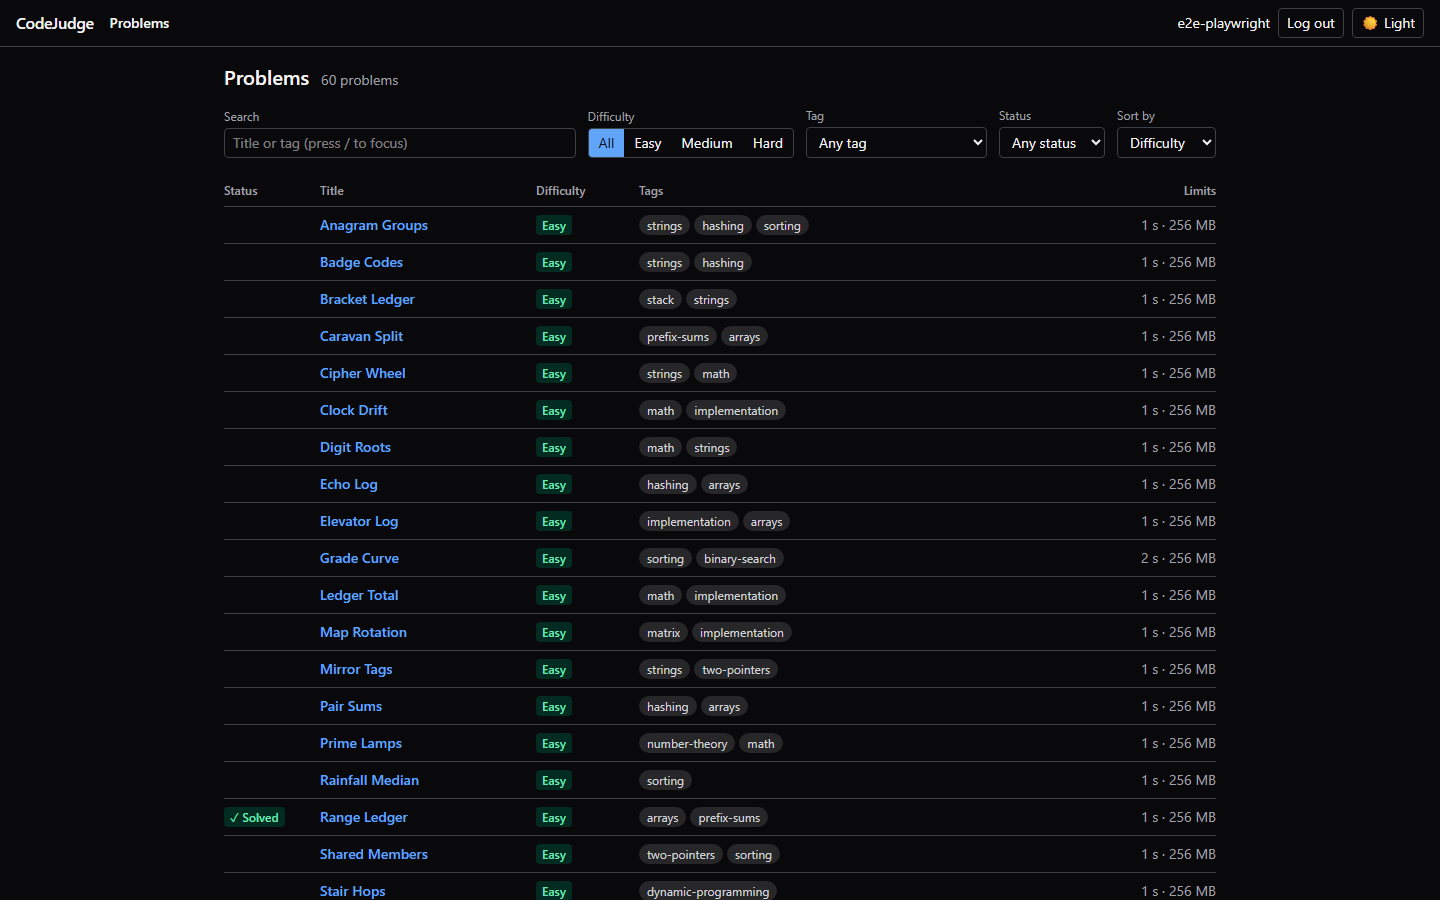
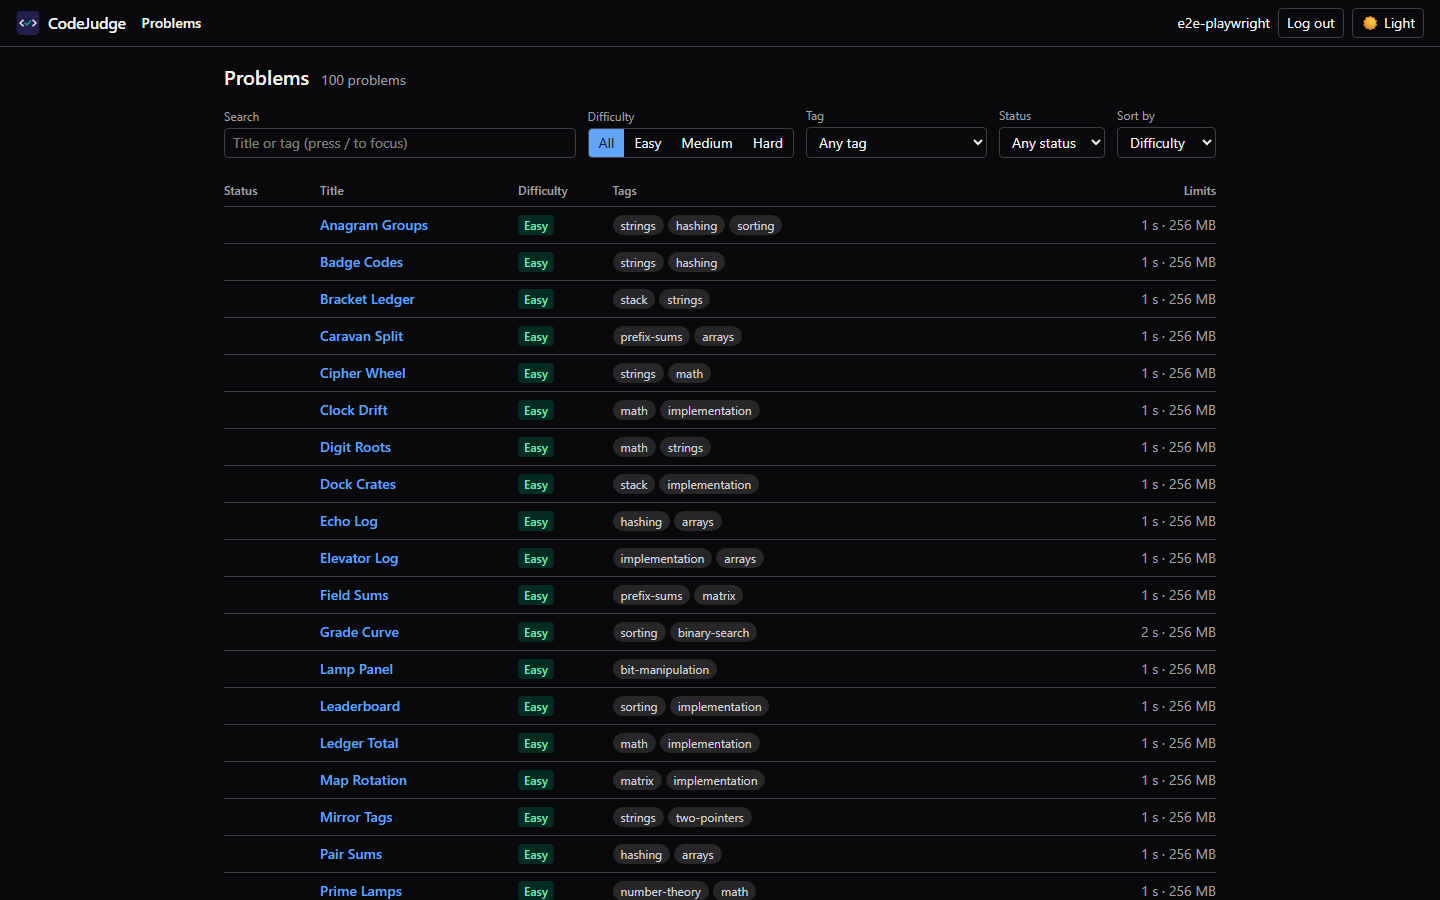
Screenshots without private solutions
The judge and UI e2e specs use programs written for them (web/e2e/showcase.ts) instead of the private reference and wrong solutions. Every docs/img image was regenerated (now with the logo).

diff --git a/web/e2e/ui.spec.ts b/web/e2e/ui.spec.ts
@@ -3,12 +3,11 @@
 // (UI_SCREENSHOTS=1 writes docs/img/ui-*.png).
 import AxeBuilder from "@axe-core/playwright";
 import { expect, test, type Page } from "@playwright/test";
-import { readFileSync } from "node:fs";
 import { join } from "node:path";
 import { fileURLToPath } from "node:url";
 
 import { enterCode } from "./helpers.ts";
-import { solutionPath } from "./stack.ts";
+import { RANGE_LEDGER_OFF_BY_ONE, RANGE_LEDGER_OK } from "./showcase.ts";
 
 const REPO = fileURLToPath(new URL("../..", import.meta.url));
 const SHOTS = process.env.UI_SCREENSHOTS === "1";
@@ -124,10 +123,9 @@ for (const theme of ["light", "dark"] as const) {
       window.localStorage.removeItem("codejudge:draft:range-ledger:cpp");
     });
     await page.reload();
-    const sol = (f: string) => readFileSync(solutionPath("range-ledger", f), "utf8");
 
-    // The input starts as sample 01; the reference matches its expected output.
-    await enterCode(page, sol("ref.cpp"), "prefix");
+    // The input starts as sample 01; a correct program matches its expected output.
+    await enterCode(page, RANGE_LEDGER_OK, "prefix");
     await expect(page.getByRole("tab", { name: "Run" })).toHaveAttribute("aria-selected", "true");
     await page.getByRole("button", { name: "Run", exact: true }).click();
     await expect(page.getByTestId("run-status")).toHaveAttribute("data-status", "OK");
@@ -143,7 +141,7 @@ for (const theme of ["light", "dark"] as const) {
 
     // A wrong program on a sample shows the diff against the expected output.
     await page.getByRole("button", { name: "Sample 01" }).click();
-    await enterCode(page, sol("wrong.cpp"), "prefix");
+    await enterCode(page, RANGE_LEDGER_OFF_BY_ONE, "prefix");
     await page.getByRole("button", { name: "Run", exact: true }).click();
     const diffLine = page.getByTestId("run-output").locator('[data-kind="expected"]').first();
     await expect(diffLine).toBeAttached();
@@ -152,7 +150,7 @@ for (const theme of ["light", "dark"] as const) {
     await shot(page, `run-diff-${theme}`);
 
     // Submitting switches to the Submission tab and shows the verdict summary.
-    await enterCode(page, sol("ref.cpp"), "prefix");
+    await enterCode(page, RANGE_LEDGER_OK, "prefix");
     await page.getByRole("button", { name: "Submit" }).click();
     await expect(page.getByRole("tab", { name: "Submission" })).toHaveAttribute("aria-selected", "true");
     await expect(page.getByTestId("result").getByTestId("verdict")).toHaveAttribute("data-verdict", "AC");

diff --git a/web/e2e/judge.spec.ts b/web/e2e/judge.spec.ts
@@ -1,15 +1,14 @@
-import { readFileSync } from "node:fs";
 import { join } from "node:path";
 
 import { expect, test, type Page } from "@playwright/test";
 
 import { enterCode as pasteCode } from "./helpers.ts";
-import { REPO, solutionPath } from "./stack.ts";
+import { RANGE_LEDGER_OFF_BY_ONE, RANGE_LEDGER_OK } from "./showcase.ts";
+import { REPO } from "./stack.ts";
 
-// range-ledger: its wrong solution (off-by-one) fails on SAMPLE 01, so the WA
-// case exercises the sample diff view.
+// range-ledger: the off-by-one program fails on SAMPLE 01, so the WA case
+// exercises the sample diff view. Programs from showcase.ts (screenshots).
 const SLUG = "range-ledger";
-const solution = (file: string) => readFileSync(solutionPath(SLUG, file), "utf8");
 const SHOTS = process.env.PHASE4_SCREENSHOTS === "1"; // write docs/img/phase4-*.png
 const shot = async (page: Page, name: string) => {
   if (SHOTS) await page.screenshot({ path: join(REPO, "docs", "img", `phase4-${name}.png`) });
@@ -23,13 +22,13 @@ test.beforeEach(async ({ context, page }) => {
   await page.evaluate(() => localStorage.clear());
 });
 
-test("problem list -> problem page -> C++ reference is Accepted", async ({ page }) => {
+test("problem list -> problem page -> a correct C++ program is Accepted", async ({ page }) => {
   await page.goto("/problems");
   await expect(page.getByRole("heading", { name: "Problems" })).toBeVisible();
   await page.getByRole("link", { name: "Range Ledger" }).click();
   await expect(page.getByRole("heading", { name: "Range Ledger", level: 1 })).toBeVisible();
   await expect(page.getByText("Sample 01 input")).toBeVisible();
-  await enterCode(page, solution("ref.cpp"));
+  await enterCode(page, RANGE_LEDGER_OK);
   await shot(page, "problem-page");
 
   await page.getByRole("button", { name: "Submit" }).click();
@@ -51,7 +50,7 @@ test("problem list -> problem page -> C++ reference is Accepted", async ({ page 
 
 test("wrong solution: WA on a sample shows input, expected and the diff", async ({ page }) => {
   await page.goto(`/problems/${SLUG}`);
-  await enterCode(page, solution("wrong.cpp"));
+  await enterCode(page, RANGE_LEDGER_OFF_BY_ONE);
   await page.keyboard.press("ControlOrMeta+Enter"); // keyboard shortcut submits
 
   await expect(page.getByTestId("result").getByTestId("verdict")).toHaveAttribute("data-verdict", "WA");

diff --git a/web/e2e/showcase.ts b/web/e2e/showcase.ts
@@ -1,0 +1,28 @@
+// Programs written for these specs and the screenshots they take (docs/img),
+// so no private reference or wrong solution ever appears in a public image.
+
+/** Range Ledger, correct: prefix sums, sum(l..r) = prefix[r] - prefix[l - 1]. */
+export const RANGE_LEDGER_OK = `#include <iostream>
+#include <vector>
+
+int main() {
+    std::ios::sync_with_stdio(false);
+    std::cin.tie(nullptr);
+    int n, q;
+    std::cin >> n >> q;
+    std::vector<long long> prefix(n + 1, 0); // prefix[i] = b_1 + ... + b_i
+    for (int i = 1; i <= n; ++i) {
+        long long b;
+        std::cin >> b;
+        prefix[i] = prefix[i - 1] + b;
+    }
+    while (q--) {
+        int l, r;
+        std::cin >> l >> r;
+        std::cout << prefix[r] - prefix[l - 1] << '\\n';
+    }
+}
+`;
+
+/** Range Ledger, off by one (drops day l): 14 7 0 instead of 15 9 3 on sample 01. */
+export const RANGE_LEDGER_OFF_BY_ONE = RANGE_LEDGER_OK.replace("prefix[r] - prefix[l - 1]", "prefix[r] - prefix[l]");
